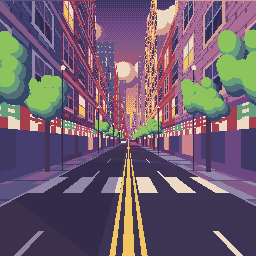
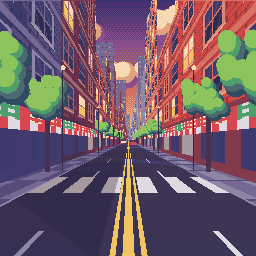
Street step 1c: palette 48 colours, no violet blocks
Claude-Session: https://claude.ai/code/session_018A3EjUJwum2xaBpGm7gsrV

diff --git a/games/background/street/make_street.py b/games/background/street/make_street.py
@@ -35,7 +35,7 @@ for x0,w,h,c in ((92,22,98,"#6a5a9a"),(138,24,84,"#7a62a0"),(114,12,60,"#8a6aa0"
 def blocks():
     z=0.4; out=[]; prev=None
     while z<70:
-        L=random.uniform(6,13); k=random.choice([c for c in ("brick","orange","blue","violet","red") if c!=prev]); prev=k
+        L=random.uniform(6,13); k=random.choice([c for c in ("brick","orange","blue","red","orange") if c!=prev]); prev=k
         out.append((z,z+L,random.uniform(13,32),k)); z+=L
     return out
 BL={-1:blocks(),1:blocks()}
@@ -120,7 +120,7 @@ def car(X,z,c):
         for x in range(x0,x1):
             if 0<=x<W and 0<=y<H: px[x,y]=fog(c if y>y0+.45*s else hx("#2a2858"),z)
 car(1.5,34,hx("#d8434f")); car(-1.6,46,hx("#e8e0d0"))
-out=im.quantize(32,method=Image.Quantize.MEDIANCUT,dither=Image.Dither.NONE).convert("RGB")
+out=im.quantize(48,method=Image.Quantize.MEDIANCUT,dither=Image.Dither.NONE).convert("RGB")
 out.save("street_dusk_art_256.png"); out.resize((1024,1024),Image.NEAREST).save("street_dusk_x4.png")
 print("colours:",len(out.getcolors(100000)))
 ref=Image.open("../../style-guide/references/ref_city_street.webp").convert("RGB").resize((512,512))
